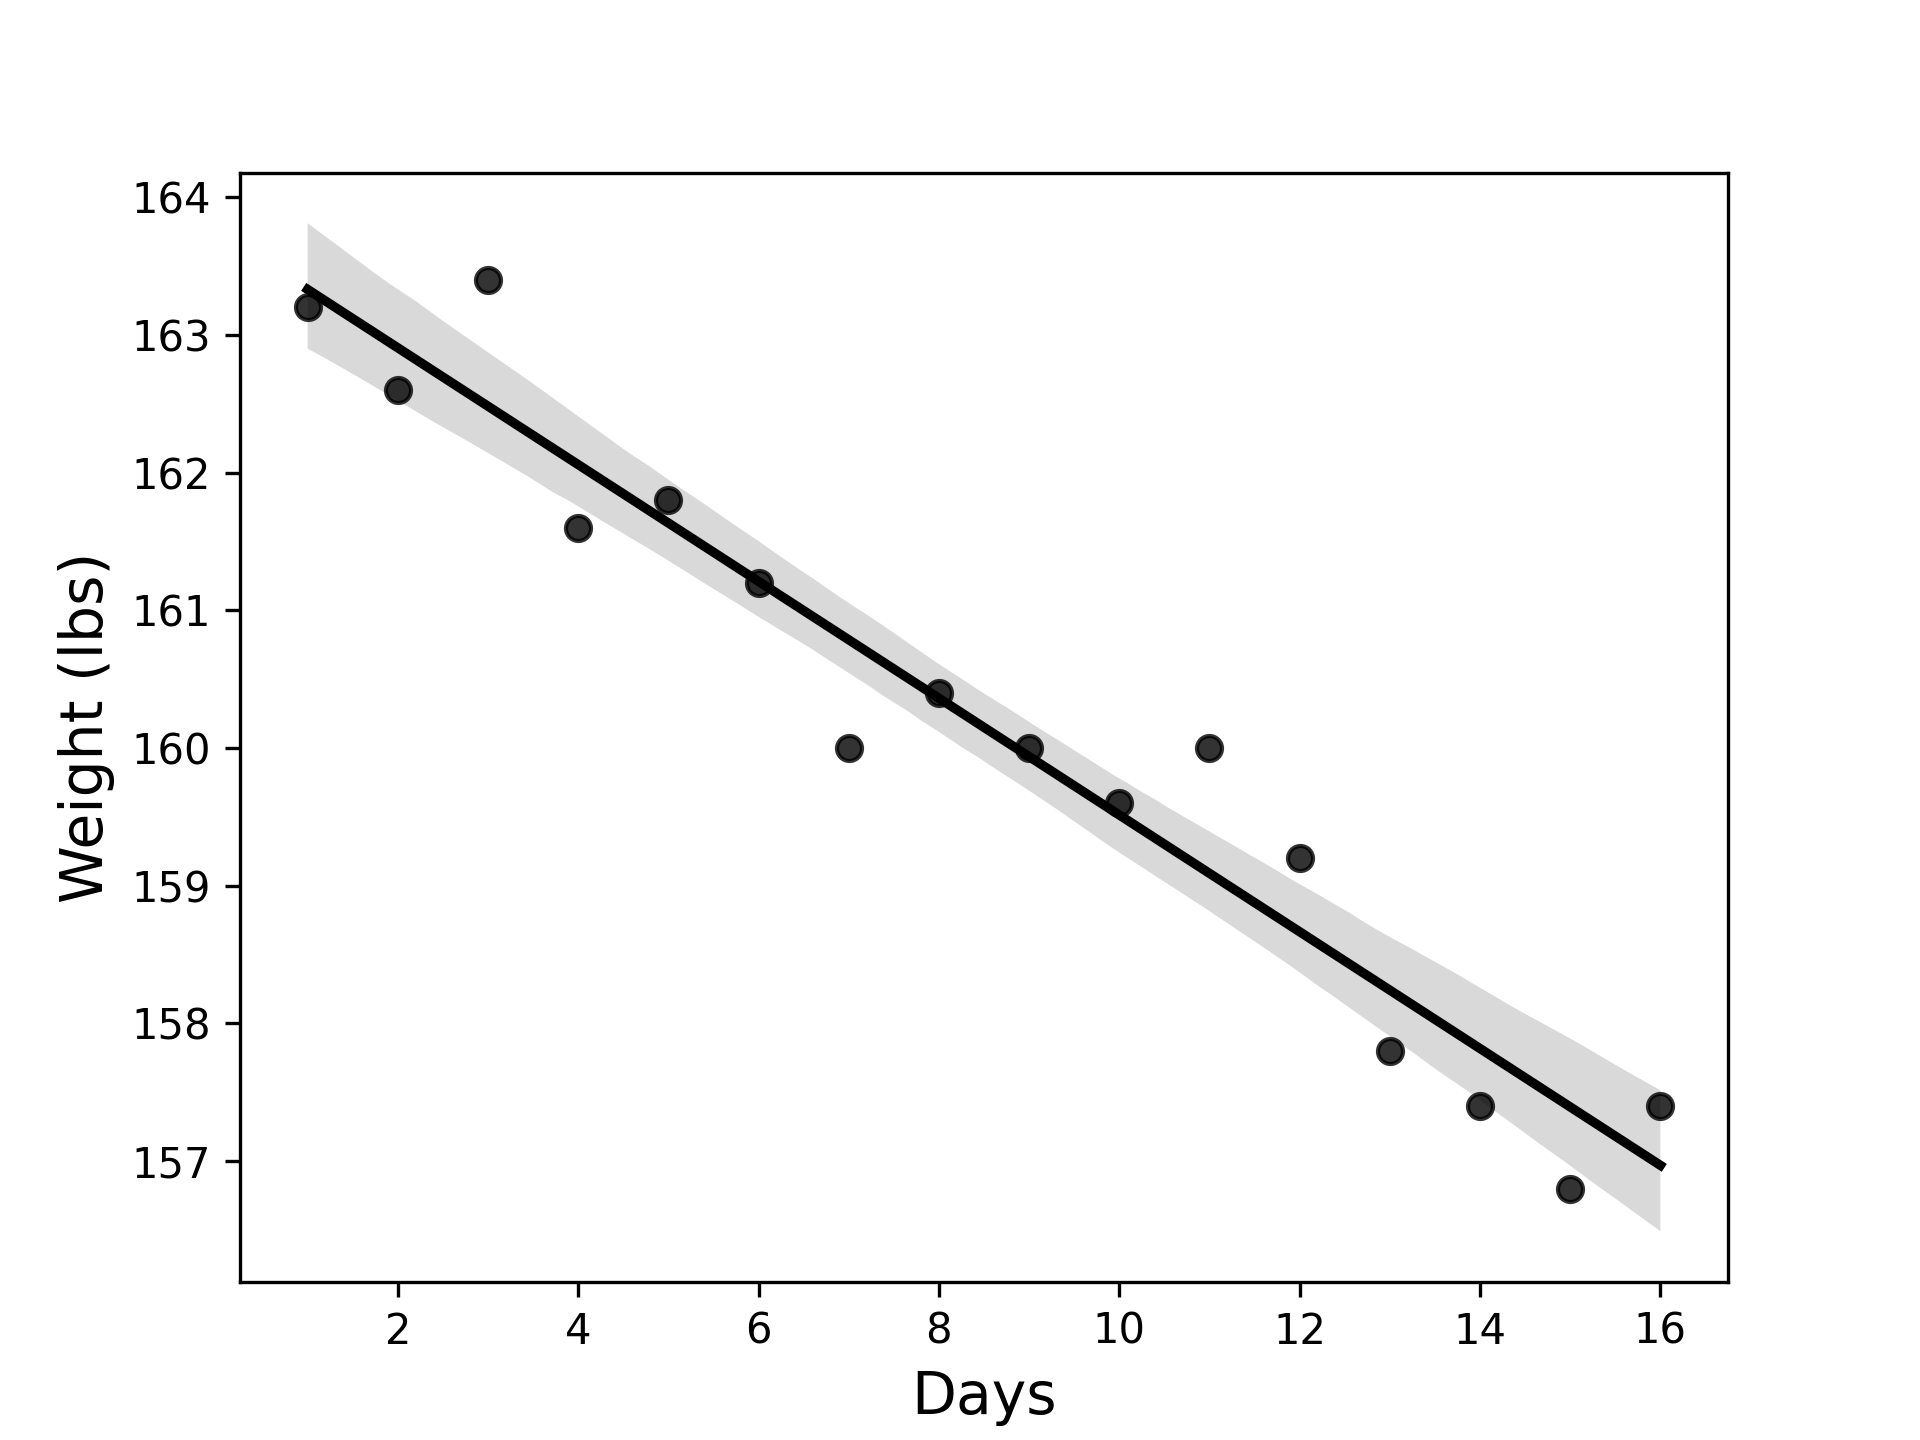
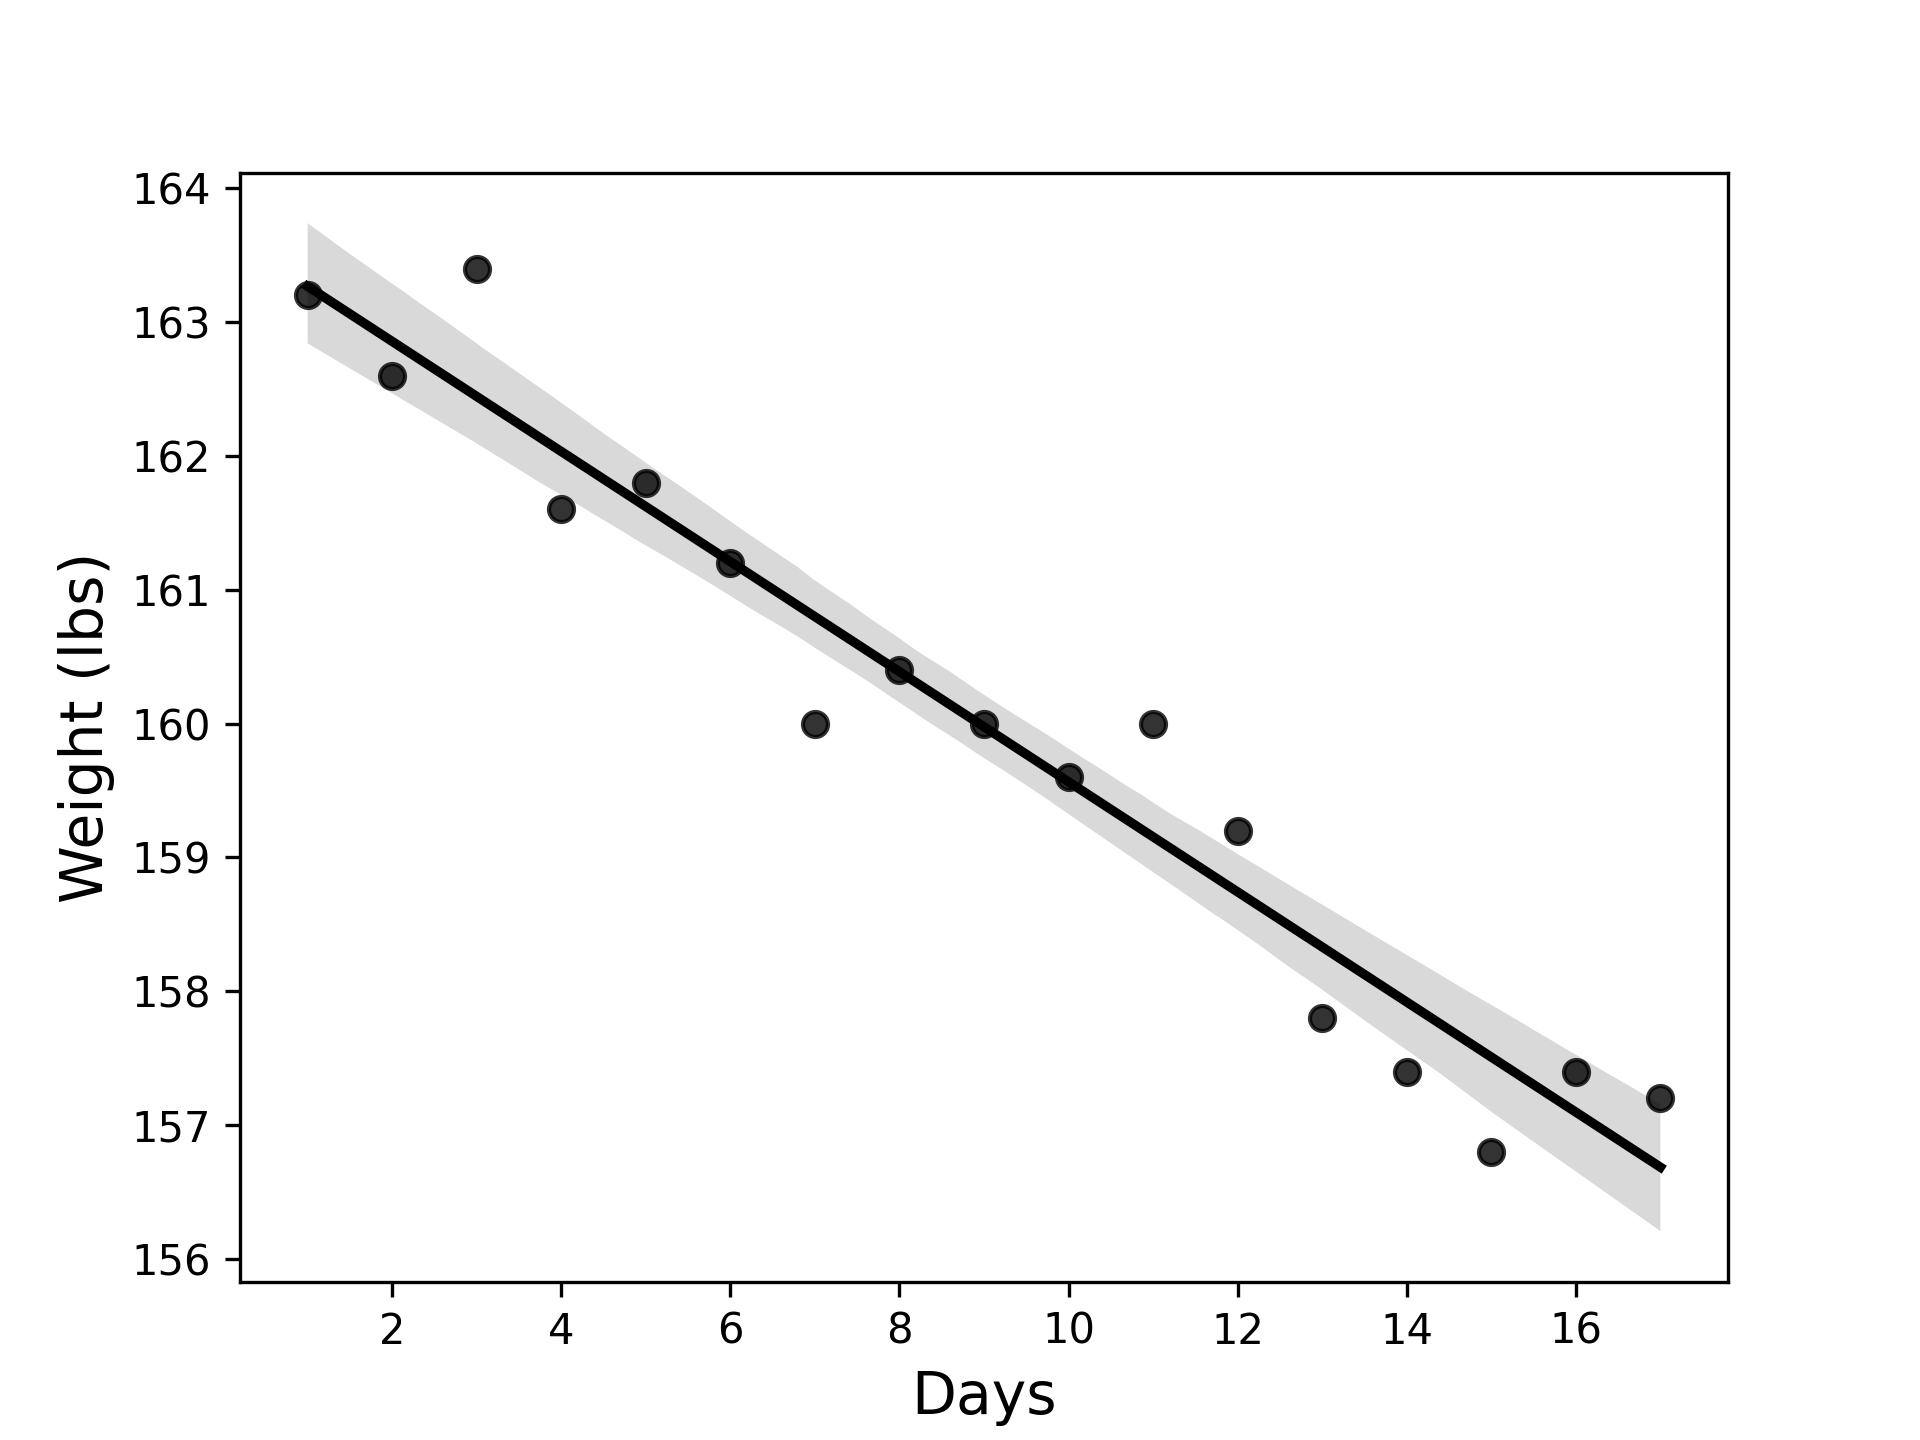
Updated weight.py and weight.png

diff --git a/Weight.py b/Weight.py
@@ -5,8 +5,9 @@ import matplotlib.pyplot as plt
 import seaborn as sns
 
 # Creates an array of elapsed days and assigns it to days_elapsed
-days_elapsed = np.array([1, 2, 3 ,4, 5, 6, 7, 8, 9, 10,11,12,13, 14,15,16]).reshape(-1,1)
-weight = np.array([163.2, 162.6, 163.4, 161.6, 161.8, 161.2, 160.0, 160.4, 160.0, 159.6,160.0,159.2,157.8, 157.4,156.8,157.4])
+days_elapsed = np.array([1, 2, 3 ,4, 5, 6, 7, 8, 9, 10,11,12,13, 14,15,16,17]).reshape(-1,1)
+weight = np.array([163.2, 162.6, 163.4, 161.6, 161.8, 161.2, 160.0, 160.4, 160.0, 159.6,160.0,159.2,157.8, 157.4,156.8,157.4,
+                   157.2])
 
 # Instantiates a LinearRegression model and fits it to the above arrays
 model = sklearn.linear_model.LinearRegression().fit(days_elapsed,weight)
